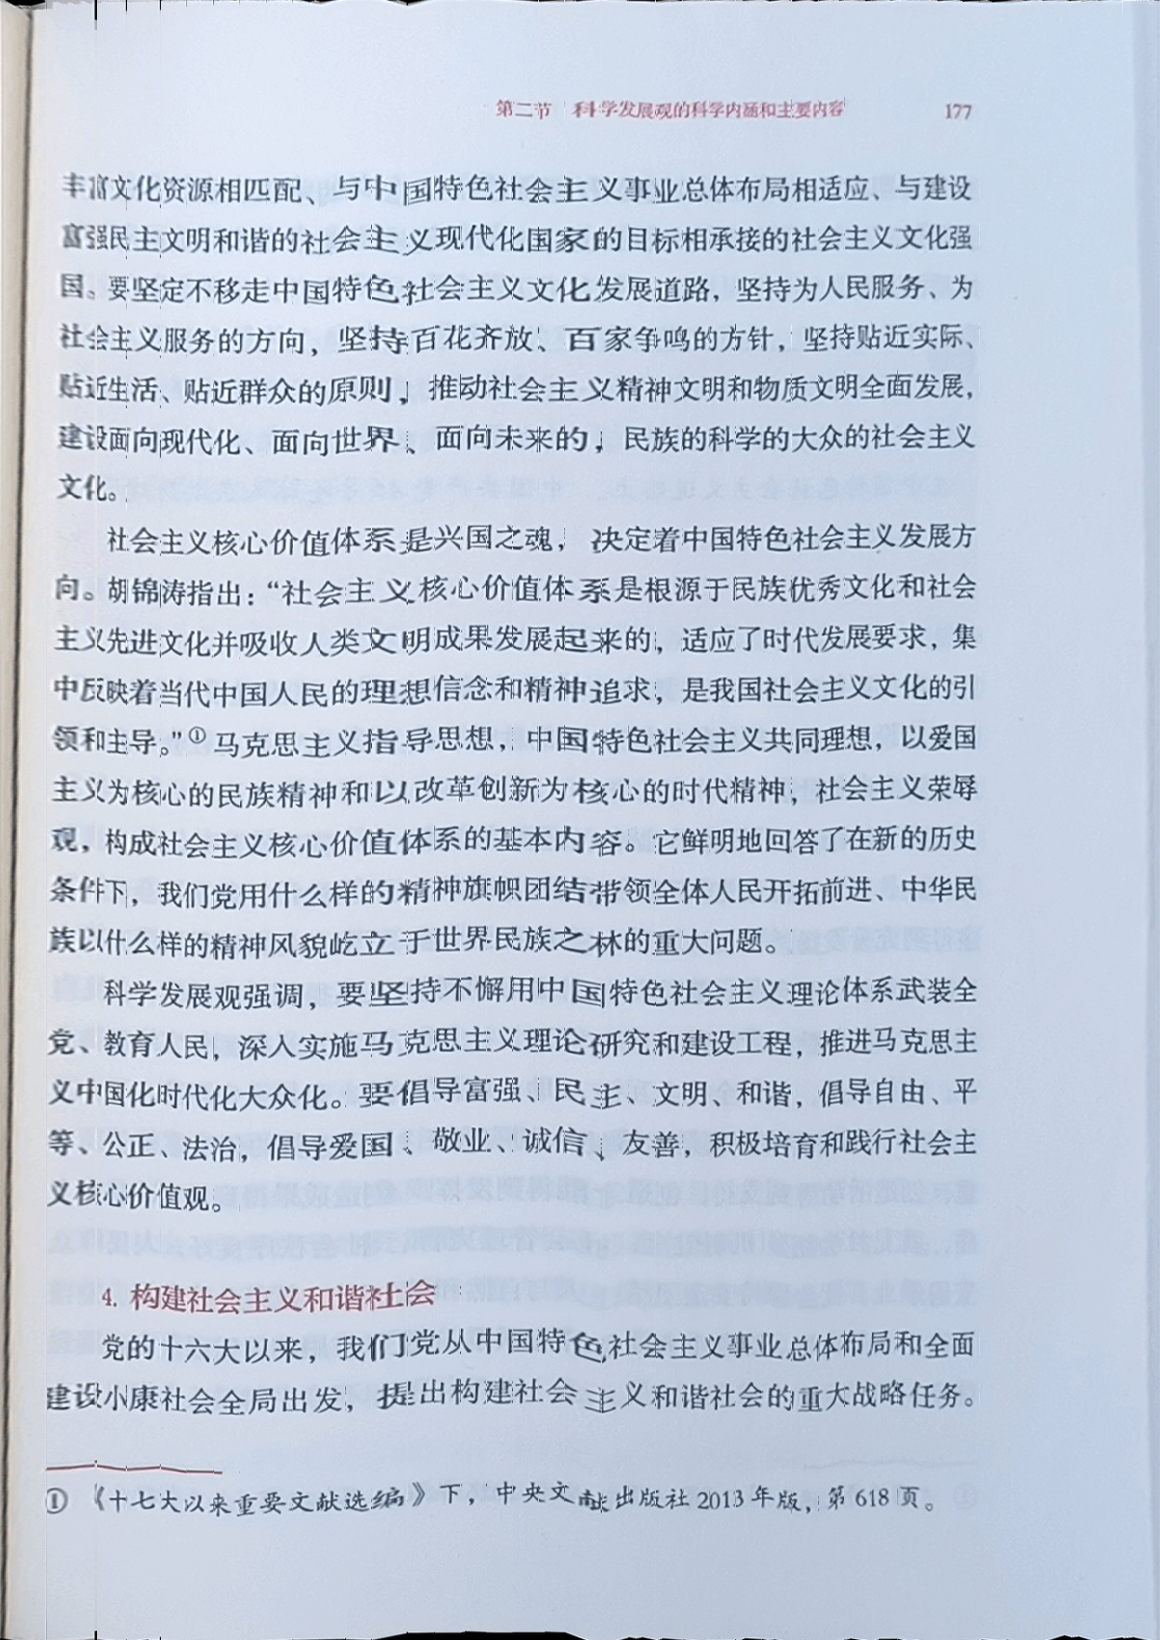
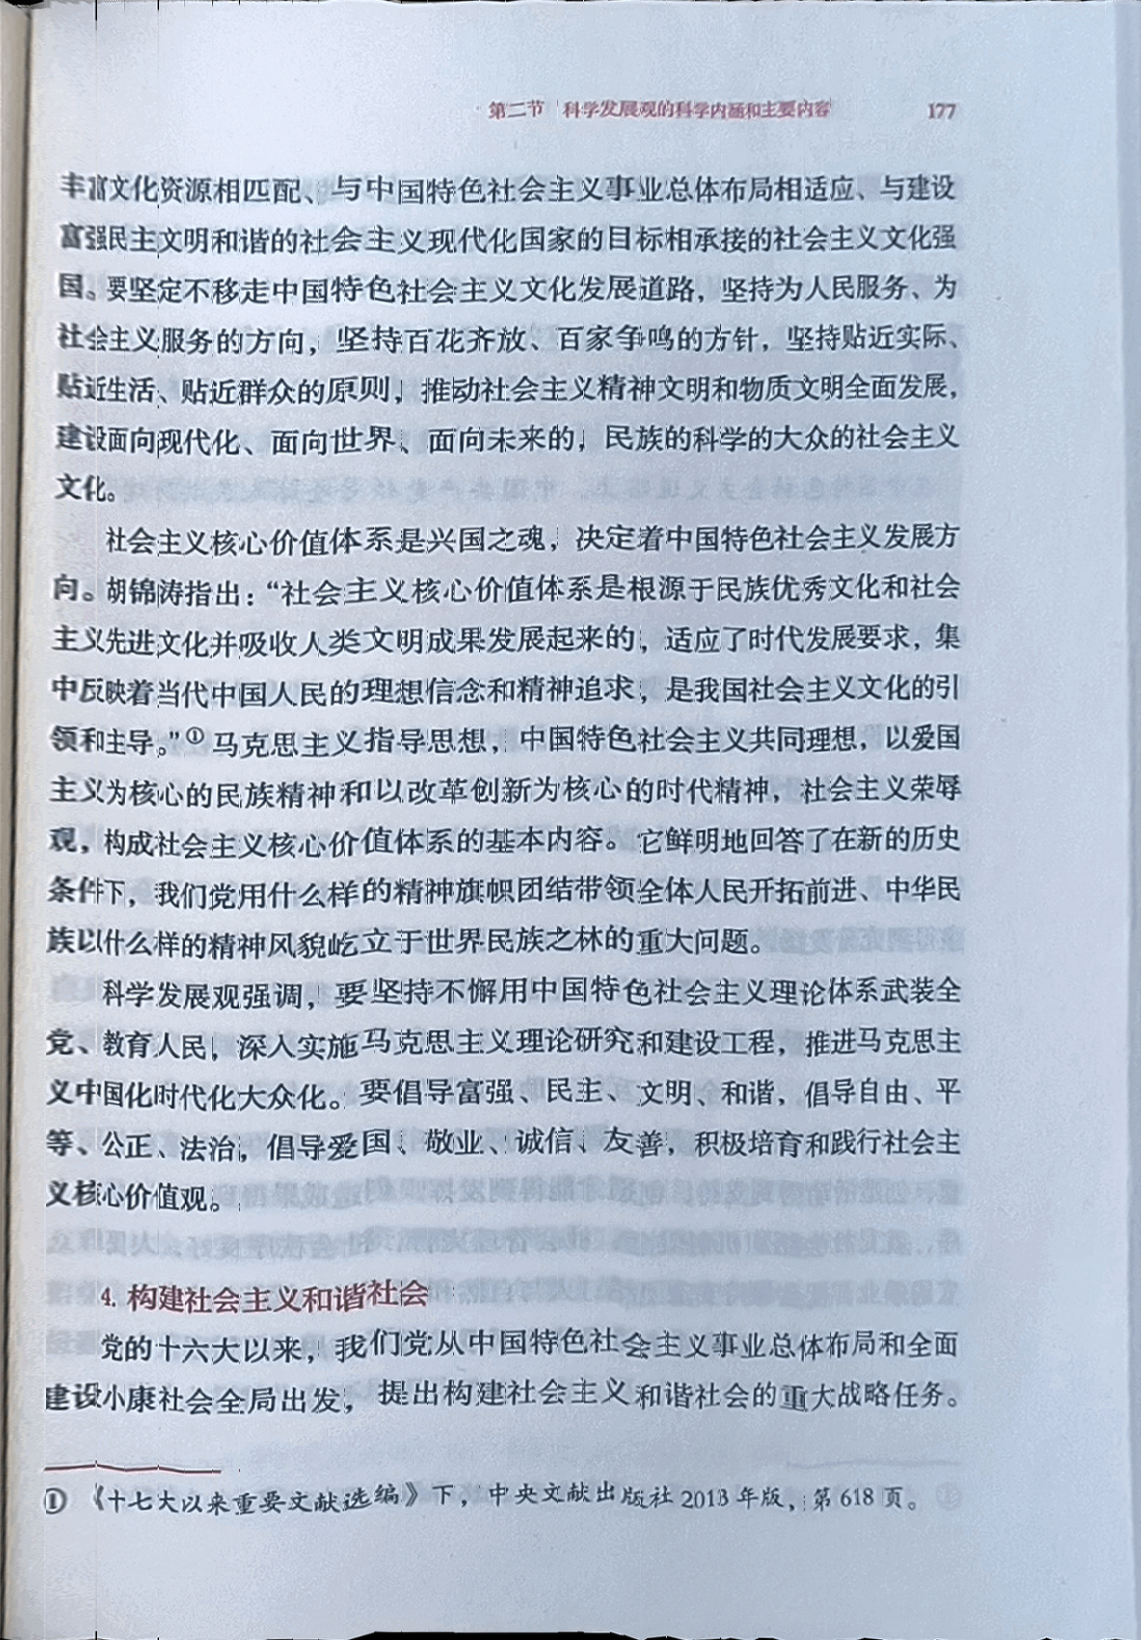
修改了pic_pre_process.py的部分参数，添加了光照自动补偿的功能

diff --git a/text_classificate/pic_pre_process.py b/text_classificate/pic_pre_process.py
@@ -14,6 +14,12 @@ from image_segmentation.models.Unet import UNet
 from dataset_get.pic_to_text_by_OCR import get_pic_text
 from image_segmentation.utils import resize_rgb_image
 
+# 显示图像
+def show_image(img):
+    plt.imshow(cv2.cvtColor(img, cv2.COLOR_BGR2RGB))
+    plt.axis('off')
+    plt.show()
+
 # 处理数据集
 def process_dataset():
     class_name_list = ['movie','classics','education','travel','biology']
@@ -51,17 +57,11 @@ def process_before_OCR(image):
     # 降噪
     blurred = cv2.GaussianBlur(gray, (5,5), 0)
     # 自适应二值化
-    binary = cv2.adaptiveThreshold(blurred, 255, cv2.ADAPTIVE_THRESH_MEAN_C, cv2.THRESH_BINARY, 9, 7)
+    binary = cv2.adaptiveThreshold(blurred, 255, cv2.ADAPTIVE_THRESH_GAUSSIAN_C, cv2.THRESH_BINARY, 3, 3)
     # 形态学操作
     kernel = np.ones((2,2), np.uint8)
-    processed = cv2.morphologyEx(binary, cv2.MORPH_OPEN, kernel)
+    processed = cv2.morphologyEx(binary, cv2.MORPH_CLOSE, kernel)
     return processed
-
-# 显示图像
-def show_image(img):
-    plt.imshow(cv2.cvtColor(img, cv2.COLOR_BGR2RGB))
-    plt.axis('off')
-    plt.show()
 
 # 删除小的连通组件
 def remove_small_connected_components(mask, min_size):
@@ -119,17 +119,53 @@ def predict_by_unet(origin_path, net, transform):
 
     return masked_img
 
+def adaptive_lighting_enhancement(img_path):
+    """与现有UNet预处理流程集成"""
+    img = cv2.imread(img_path)
+    # 确保输入为BGR格式的uint8图像
+    if img.dtype != np.uint8:
+        img = img.astype(np.uint8)
+    
+    # 自动处理灰度图情况
+    if len(img.shape) == 2:
+        img = cv2.cvtColor(img, cv2.COLOR_GRAY2BGR)
+    elif img.shape[2] == 1:
+        img = cv2.cvtColor(img, cv2.COLOR_GRAY2BGR)
+    
+    # 确保为3通道
+    if img.shape[2] > 3:
+        img = img[:,:,:3]
+
+    # 使用LAB颜色空间优化光照补偿
+    lab = cv2.cvtColor(img, cv2.COLOR_BGR2LAB)
+    l, a, b = cv2.split(lab)
+    
+    # CLAHE自适应直方图均衡
+    clahe = cv2.createCLAHE(clipLimit=3.0, tileGridSize=(8,8))
+    cl = clahe.apply(l)
+    
+    # 亮度通道融合
+    limg = cv2.merge((cl,a,b))
+    return cv2.cvtColor(limg, cv2.COLOR_LAB2BGR)
+
 # =========================裁剪黑边+图像倾斜纠正=========================
 # 自动裁剪黑边
 def auto_remove_black_border(img):
     """基于内容检测自动裁剪黑边"""
     gray = cv2.cvtColor(img, cv2.COLOR_BGR2GRAY)                                            # 灰度化
-    _, thresh = cv2.threshold(gray, 1, 255, cv2.THRESH_BINARY)                              # 二值化
+    _, thresh = cv2.threshold(gray, 15, 255, cv2.THRESH_BINARY)                             # 二值化
+
+    # show_image(thresh)
     
     # 寻找内容边界
     contours = cv2.findContours(thresh, cv2.RETR_EXTERNAL, cv2.CHAIN_APPROX_SIMPLE)[0]      # 查找轮廓
     cnt = max(contours, key=cv2.contourArea)                                                # 找到最大轮廓
     x,y,w,h = cv2.boundingRect(cnt)                                                         # 获取最小外接矩形
+
+    # # ==================================== 可视化调试 ====================================
+    # cv2.drawContours(img, [cnt], -1, (0,255,0), 2)
+    # cv2.rectangle(img, (x,y), (x+w,y+h), (0,255,0), 2)
+    # show_image(img)
     
     # 扩展5像素保留边缘
     x = max(0, x-5)                                                                         # 防止越界
@@ -220,13 +256,14 @@ def calculate_rotation_angle(upper, lower):
 def find_book_corners_and_split(img_path):
     # ========== 1. 图像预处理 ==========
     img = cv2.imread(img_path)
+
     h, w = img.shape[:2]
     
     # 多尺度预处理
     gray = cv2.cvtColor(img, cv2.COLOR_BGR2GRAY)                                            # 灰度化
     blur = cv2.bilateralFilter(gray, 9, 30, 30)                                             # 双边滤波
     edges = cv2.Canny(blur, 30, 100)                                                        # 边缘检测
-    
+
     # 形态学强化轮廓
     kernel = cv2.getStructuringElement(cv2.MORPH_RECT, (5,5))                               # 创建结构元素
     dilated = cv2.morphologyEx(edges, cv2.MORPH_CLOSE, kernel, iterations=2)                # 闭运算
@@ -866,6 +903,8 @@ def get_text_block(img_path, black_tolerance=0.05):
     gray = cv2.cvtColor(img, cv2.COLOR_BGR2GRAY)
     blurred = cv2.GaussianBlur(gray, (15, 15), 0)
 
+    # show_image(blurred)
+
     # ========== 2. 自适应阈值分割 ==========
     thresh = cv2.adaptiveThreshold(blurred, 255, 
                                 cv2.ADAPTIVE_THRESH_GAUSSIAN_C,
@@ -882,6 +921,8 @@ def get_text_block(img_path, black_tolerance=0.05):
     cleaned[-border_size:, :] = 0                                                           # 下边缘
     cleaned[:, :border_size] = 0                                                            # 左边缘
     cleaned[:, -border_size:] = 0                                                           # 右边缘
+
+    # show_image(cleaned)
 
     # ========== 5. 轮廓检测 ==========
     contours, _ = cv2.findContours(cleaned, cv2.RETR_EXTERNAL, cv2.CHAIN_APPROX_SIMPLE)     # 查找轮廓
@@ -968,6 +1009,11 @@ def get_text_block(img_path, black_tolerance=0.05):
 
             # 保留有效点
             preserved_points = contour_points[mask]                                         # 保留有效点
+
+            # # ==================================== 可视化调试 ====================================
+            # debug_img = img.copy()
+            # cv2.drawContours(debug_img, [preserved_points.reshape(-1, 1, 2)], -1, (0, 255, 0), 2)
+            # show_image(debug_img)
 
             # 6.7 凸包段插入
             for s_p, e_p, _ in defect_segments:                                             # 遍历凸起段
@@ -1181,13 +1227,19 @@ def smart_horizontal_split(img_path, min_gap=5):
 def process_main(fold_path, img_name, net, transform):
     # 使用Unet进行图像分割
     img_name = img_name.split(".")[0]
+
     print(f"开始Unet图像分割{img_name}.png...")
     masked_img = predict_by_unet(fold_path + img_name + '.png', net, transform)
-    cv2.imwrite(f"./text_classificate/content/images/{img_name}_1_masked.png", masked_img)
+    cv2.imwrite(f"{fold_path}/{img_name}_0_masked.png", masked_img)
+
+    # 动态光照补偿
+    print(f"开始动态光照补偿{img_name}_0_masked.png...")
+    enhanced_img = adaptive_lighting_enhancement(f"{fold_path}/{img_name}_0_masked.png")
+    cv2.imwrite(f"{fold_path}/{img_name}_1_enhanced.png", enhanced_img)
 
     # 旋转校正
-    print(f"开始旋转校正{img_name}_1_masked.png...")
-    rotated = correct_book_rotation(f'{fold_path}/{img_name}_1_masked.png')
+    print(f"开始旋转校正{img_name}_1_enhanced.png...")
+    rotated = correct_book_rotation(f'{fold_path}/{img_name}_1_enhanced.png')
     cv2.imwrite(f"{fold_path}/{img_name}_2_rotated.png", rotated)
 
     # 分页处理
@@ -1318,4 +1370,4 @@ if __name__ == "__main__":
     #         right_text += get_pic_text(f"./text_classificate/content/images/grass_{i}_6_text_block_right_{j}.png")
     #     print(f"右页文字识别结果：{right_text}")
         
-    process_main('./text_classificate/content/images/', 'grass_4_.png', net, transform)
+    process_main('./text_classificate/content/images/', 'grass_4.png', net, transform)
